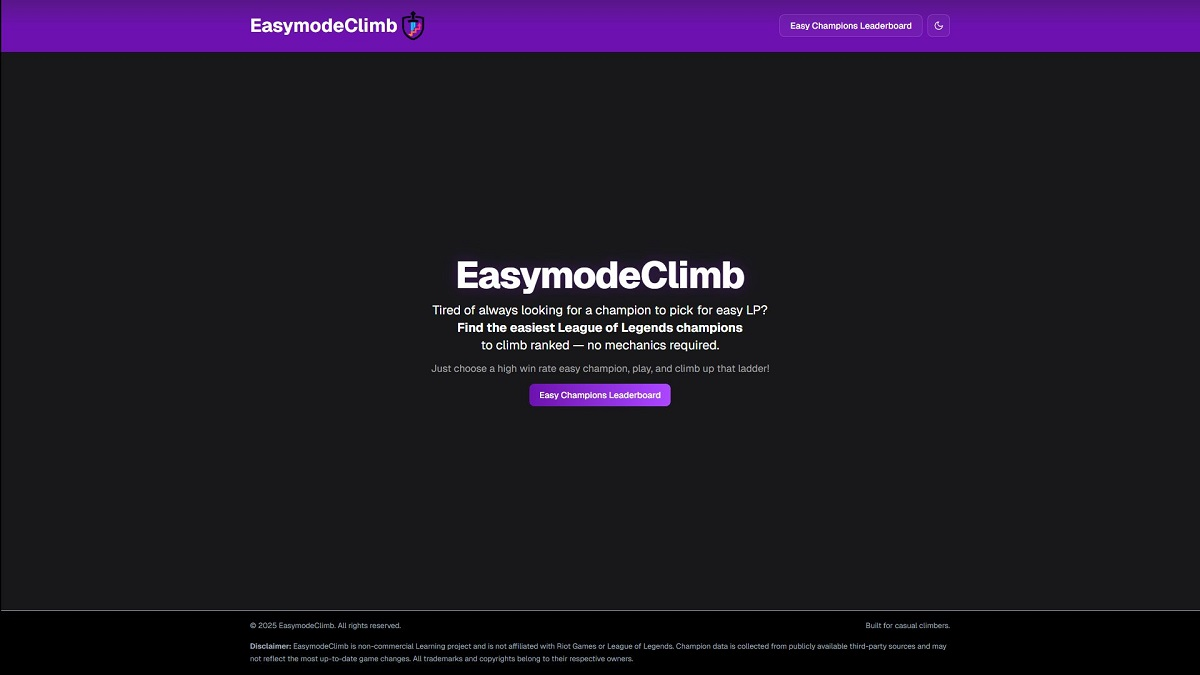
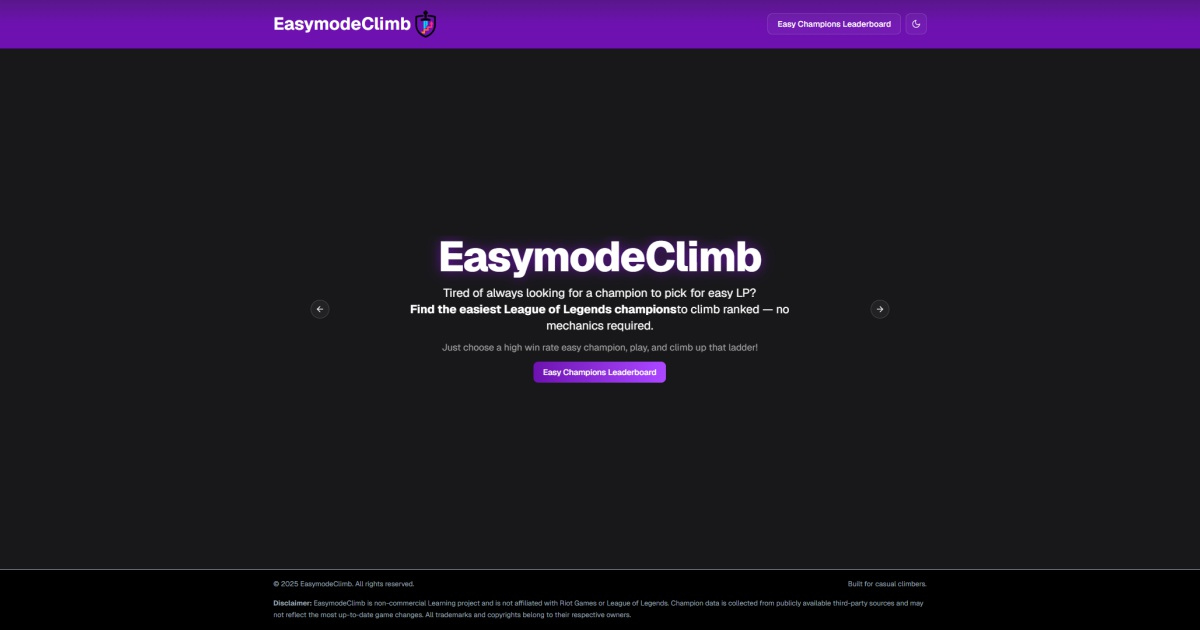
Improved some styles and updated preview image.

diff --git a/src/app/components/HomeCarousel.tsx b/src/app/components/HomeCarousel.tsx
@@ -11,13 +11,13 @@ import Link from "next/link";
 export function HomeCarousel() {
   return (
     <Carousel
-      className="mx-auto w-full max-w-xl max-md:max-w-md max-[35rem]:max-w-[70vw] p-1 py-12"
+      className="mx-auto w-full max-w-4xl max-md:max-w-md max-[35rem]:max-w-[70vw] p-1 py-12"
       opts={{ align: "center", loop: true }}
     >
       <CarouselContent className="items-center">
         <CarouselItem className="">
           <section className="flex flex-col items-center justify-center text-center gap-3">
-            <h1 className="text-6xl max-md:text-4xl max-[35rem]:text-3xl font-extrabold tracking-tight max-w-3xl dark:text-white flex items-center drop-shadow-md dark:drop-shadow-[0_0_10px_rgba(110,17,176,0.8)] ">
+            <h1 className="text-7xl max-md:text-4xl max-[35rem]:text-3xl font-extrabold tracking-tight max-w-3xl dark:text-white flex items-center drop-shadow-md dark:drop-shadow-[0_0_10px_rgba(110,17,176,0.8)] ">
               EasymodeClimb
             </h1>
             <p className="text-lg sm:text-xl max-w-2xl text-zinc-800 dark:text-white">

diff --git a/src/app/layout.tsx b/src/app/layout.tsx
@@ -31,7 +31,7 @@ export const metadata: Metadata = {
       {
         url: "/preview.jpg",
         width: 1200,
-        height: 675,
+        height: 630,
         alt: "Easymode Climb website",
       },
     ],
